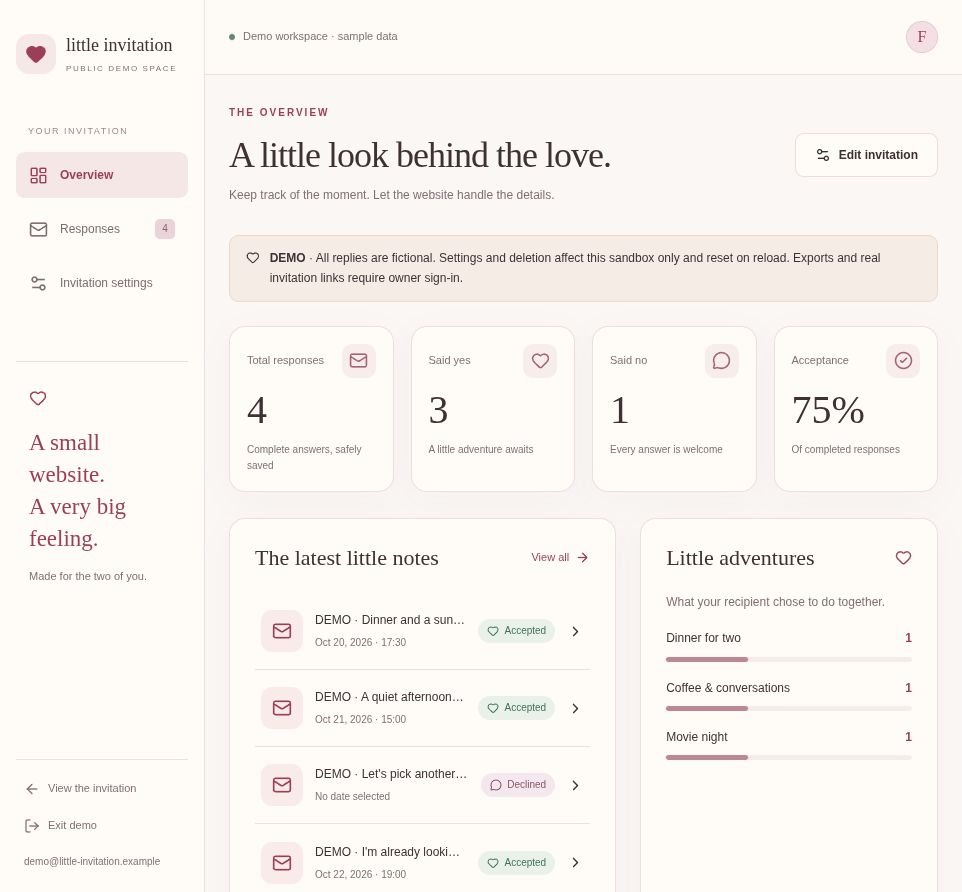
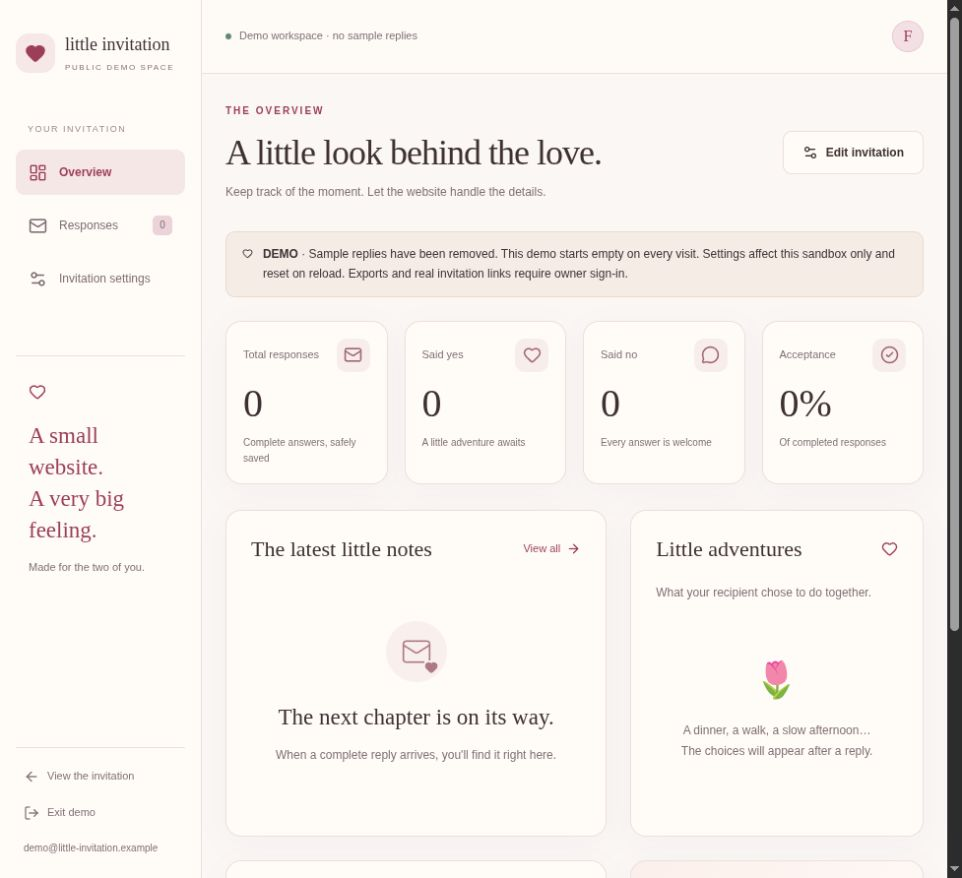
docs: record verified animation release and clean demo

diff --git a/.claude/memory/fahim-build-state.md b/.claude/memory/fahim-build-state.md
@@ -1,31 +1,19 @@
 # Fahim build state
 
-Updated2026-10-14 Asia/Dhaka.
+Updated 2026-10-14 Asia/Dhaka. Current work complete.
 
-Owner authorized building after plan review, English, local video reference. Latest scope: frontend testing gift for friend's partner; repo name our-dream-date. Explicitly authorized public GitHub upload and final deployment. Mouse No evades attempts, Yes remains stationary; keyboard/touch No supported. Further paper/decoration movement is requested later and trackedT-011.
+## Authorization and product
+Owner authorized Genesis plan review, building, public GitHub publication and Vercel deployment. English gift for Fahim's partner; default recipient name is configurable "my love". Local video is the reference. Owner approved the new animated couple design and asked to complete/push it. Genesis is not to be rerun; installed workflow/adaptation/audit are documented.
 
-Completed local Next16.4/React19.3 app, optional secure Supabase Auth/API/RLS backend, atomic complete-only/idempotent saving, admin metrics/search/filter/configuration/CSV/XLSX. Local Supabase stack healthy; .env.local and .local-access.txt private and ignored. Do not touch unrelated backend-postgres/redis containers. Genesis audit/install/adaptation documented. System design DOCX7 pages rendered/verified. New frontend /demo saves only final replies in browser storage, download/reset; unconfigured root uses demo. Public /admin/demo synthetic memory data with autofill login, no real authorization/API access. About and README/deployment guides added. Demo credentials cannot authenticate real adminAPI(401).
+## Current release
+Public repo https://github.com/hamzahossainX/our-dream-date, branch main. Live https://our-dream-date.vercel.app. Latest application commit e26b1cf passed Vercel deployment F9qYfuHspE3iWYmCjSCunEnXEjx3 with success. Native production review confirmed the flower-offering couple SVG, paper drift and couple/heart animations, zero recipient BROWSER DEMO banners, and an empty admin demo (zero replies/metrics after reload). No seeded replies return. No has varied safe resting places; Yes stays stationary. Phone375px and desktop1440px reviewed with no horizontal overflow; reduced-motion guard retained.
 
-Full local test run49/49 passed; final ordinary run40passed9 opt-in skipped. Final lint/build passed including TypeScript. Runtime auditzero. SQL rollback asserts passed. Browser320/375/768/1440 no page overflow; frontend save/reload/download/reset and demo login/filter/settings/delete/reload verified. Mouse fixed-position bug from animation ancestor fixed using root portal; keyboard decline verified. Disposable UI fixture removed, original owner and gift token preserved.
+Final ordinary test suite41passed,9 opt-in integration skipped. Expanded placement suite5passed. Lint and production build including TypeScript passed. Prior full backend run49passed and rollback security assertions passed; backend unchanged in this release. Template system design DOCX7 pages rendered/verified. README/deployment/verification docs and live screenshots included.
 
-Published: public GitHub https://github.com/hamzahossainX/our-dream-date onmain; Vercel production https://our-dream-date.vercel.app. Project our-dream-date in existing owner account; .vercel linked and ignored. Initial deploymentdpl_6eJXhjMUqD3PAtbBuDiNPkEhwAaJ READY. Production alias HTTP200 publicly accessible; preview URLs have provider authentication. Owner supplied NEXT_PUBLIC_SUPABASE_URL and NEXT_PUBLIC_SUPABASE_PUBLISHABLE_KEY; both are configured in Vercel Production as of2026-10-14. Values remain in provider configuration, not source. Live browser save/reload/reset and demo login verified; screenshots docs/verification/screenshots/live-*.jpg. Fresh typecheck now next typegen +tsc passed; Node22.x pinned inmanifest.
+## Data and provider state
+Frontend demo stores only final replies in the recipient browser and offers download/reset; it does not send them to Fahim. Public admin demo uses an empty memory sandbox, public sample login values, and no real authorization. Only NEXT_PUBLIC_SUPABASE_URL and NEXT_PUBLIC_SUPABASE_PUBLISHABLE_KEY are currently configured in Vercel Production. Real hosted saving/login still need server secret, session signing secret, invitation UUID, APP_URL, migration, Auth owner and bootstrap. Values remain in provider configuration and are not committed.
 
-Release complete: final manifest/documentation commitccc7cc2 pushed to GitHubmain, automatic Vercel production deployment4qwYEfkZUEG27ssKbTGsUXJQH9Xv reachedREADY and GitHub Vercel status success. Public alias stays https://our-dream-date.vercel.app. No remaining required release work.
+Local Supabase configuration/private owner and unused gift link remain in ignored .env.local/.local-access.txt. Disposable UI fixtures were removed. Do not touch unrelated backend-postgres/redis containers. Local dev runs detached on127.0.0.1:3000; restart npm run dev if unavailable.
 
-Next optional work: T-011 paper/decorative motion and personalization. Actual hosted shared replies require owner Supabase setup; public frontend demo intentionally does not send responses across devices. Resume from this checkpoint, do not rerun Genesis. Existing local Supabase/gift access stays private in ignored files.
-
-## Latest configuration update — 2026-10-14
-
-Added the two owner-provided public Supabase settings to Vercel Production and redeployed existing source. Deploymentdpl_HNEDzFscin6BAHuHKFhXevN4bD4N reachedREADY and the production alias was updated. Remaining real-backend prerequisites: SUPABASE_SERVICE_ROLE_KEY, INVITATION_SESSION_SECRET, INVITATION_ID, APP_URL, hosted migration, Auth owner user/membership/bootstrap. Until all are configured the root continues browser demo. Local .env.local and .local-access.txt were preserved. Provider environment values are not committed.
-
-## Active update — 2026-10-14
-
-Owner requested removing all dashboard demo data. Removed four seeded responses from lib/admin-demo.ts, updated UI/about/docs and existing credential/demo test. Demo login remains; lists/metrics initialize empty on every visit. Real database rows/accounts untouched. Next: lint/unit/build, commit/push, verify Vercel live empty dashboard after reload.
-
-Owner additionally requested hiding the recipient BROWSER DEMO banner. Removed only the top banner in InvitationExperience; browser-only storage disclosure remains at review/receipt. Include this in the pending empty-dashboard release and verify live /demo.
-
-## Animation work — 2026-10-14
-
-Prior empty-dashboard/banner removal commitb017f4a is live (Vercel success). Owner now requested applying deferred animation and a boy inviting a girl avatar. Added CoupleIllustration.tsx SVG flower-offering scene, paper drift and extra hearts, restrained couple movement; random variation among ten safe No positions. Existing unit40passed plus expanded placement5passed; lint passed before the new test-only addition. Native browser375px and default desktop977px reviewed; actual letter/hand/sway/heart transforms change over time; no page overflow. Next: final build/lint, commit/push, verify live /demo and empty dashboard, update this checkpoint.
-
-Final animation build passed (detached production build exit0); lint passed. Owner approved the design and explicitly requested completing and pushing it. Phone375 and desktop1440 native review passed; varied No remained inside the viewport with Yes stationary. Next exact step: commit/push approved animation, then verify Vercel readiness/live illustration and empty demo dashboard.
+## Next
+No remaining requested frontend/release work. Optional future work: personal wording/name/availability; complete hosted Supabase only with the owner's remaining access/settings. Resume from this checkpoint rather than old planning gates. T-011 animation work is complete.

diff --git a/docs/verification/FINAL.md b/docs/verification/FINAL.md
@@ -41,3 +41,5 @@ Git-connected deployment for final manifest/docs commit `ccc7cc2` also reached R
 ## Cleanup and animation update — 2026-10-14
 
 Removed seeded demo replies so dashboard totals/list remain empty after reload. Hid the recipient top BROWSER DEMO banner while retaining browser-only storage disclosure at review and receipt. Added a flower-offering couple SVG, animated paper drift, extra floating hearts, and varied safe No placement. Reviewed native browser375px and1440px layouts without horizontal overflow; observed changing transforms for paper/hand/sway/heart motion. Mouse No stayed within the viewport and Yes retained its rectangle. Existing reduced-motion rule covers all new SVG animations. Ordinary unit suite passed40 tests; the expanded No placement suite passed5 tests, including all ten variation choices. Lint passed.
+
+Final ordinary suite now41passed (9 opt-in integration skipped). Final production build and lint passed. GitHub application commit `e26b1cf` deployed successfully through Vercel (`F9qYfuHspE3iWYmCjSCunEnXEjx3`). Live native review confirmed zero demo responses/metrics after reload, no recipient top demo banner, and the new couple/paper animations. Final live screenshots refreshed.
